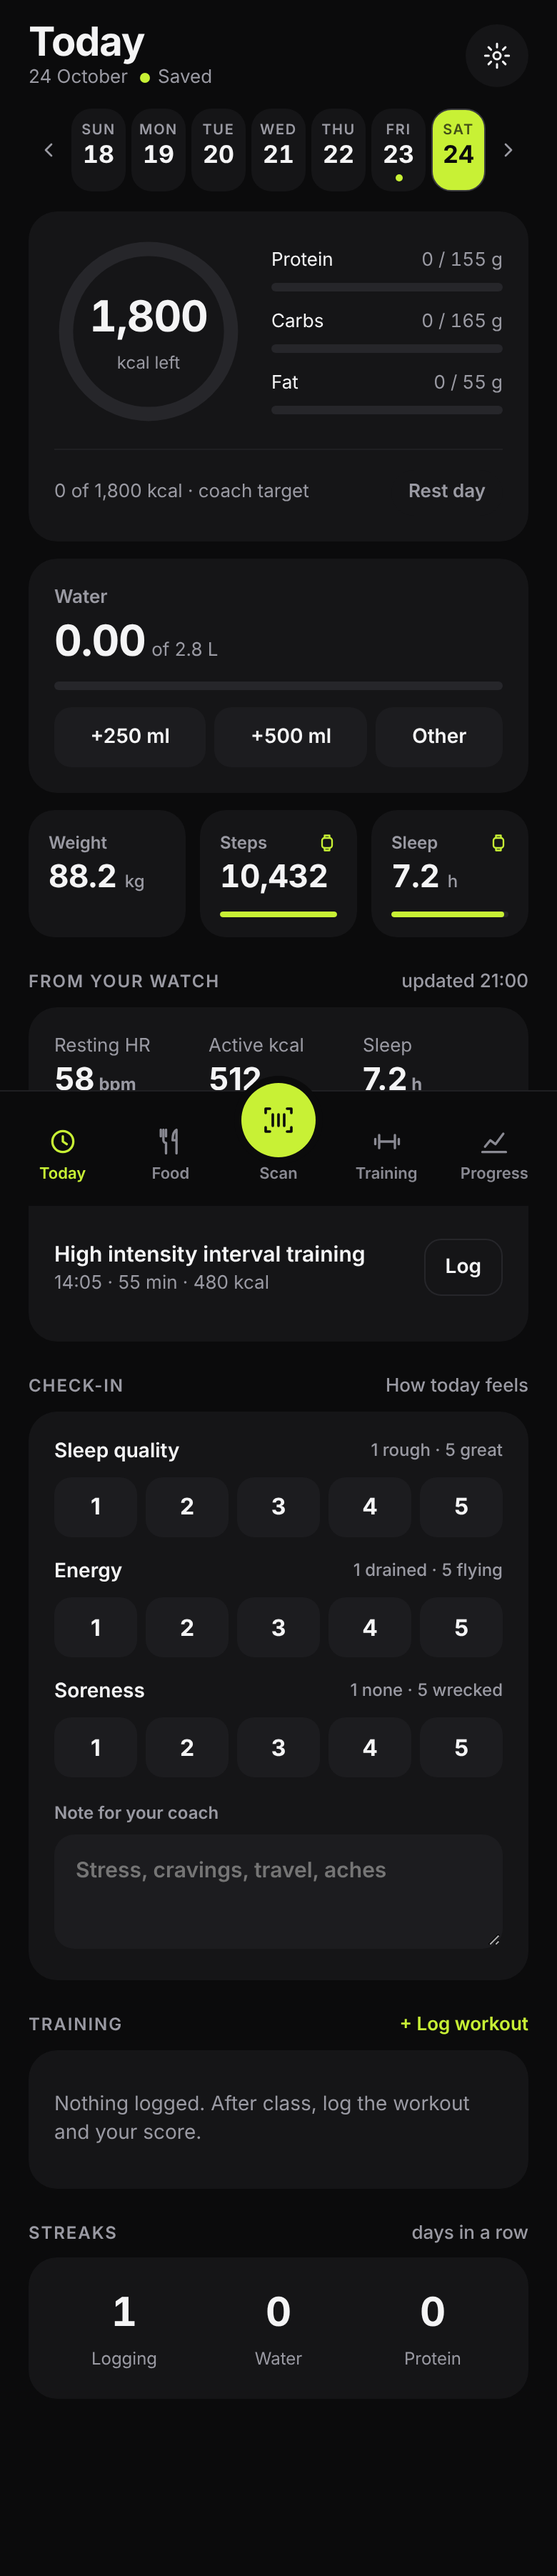
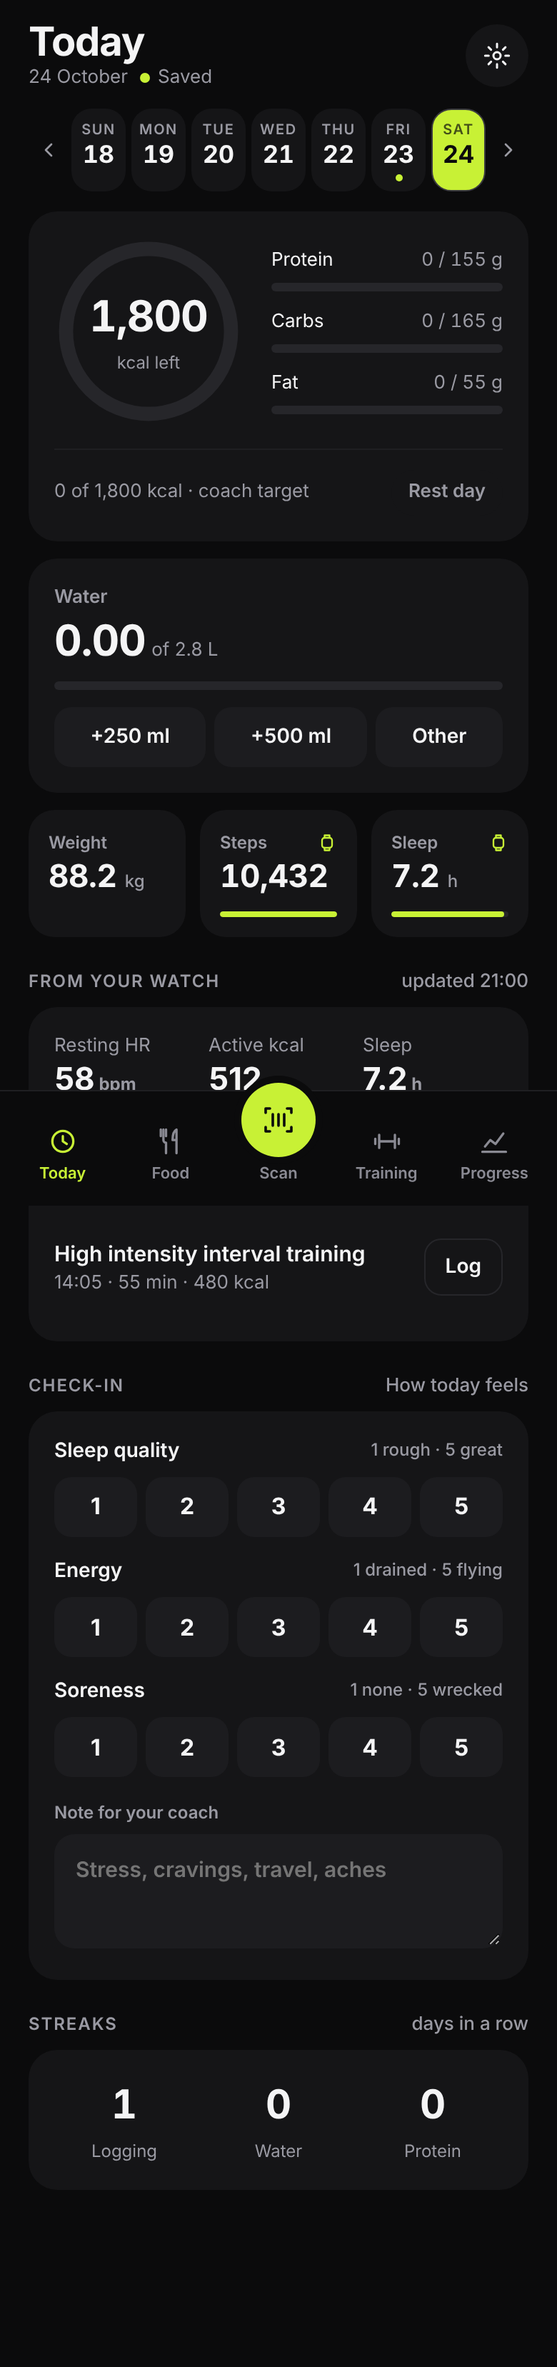
Today ends with Streaks; add food from another day (#18)
Remove the Training section from the Today screen. In the add-food sheet,
add 'From another day': the last 7 days with food, yesterday open and
older days folded, with + per item and Add all per meal. Copies keep
grams and get a new id and the current time. sw cache v21.

Claude-Session: https://claude.ai/code/session_01NXSLsekK9o7ccniDYoUDFF

diff --git a/index.html b/index.html
@@ -122,6 +122,21 @@ label.f input, label.f select, label.f textarea { margin-top: 6px; background: v
 .prow .s { display: block; font-size: 13px; color: var(--muted); }
 .prow .pd { flex: none; text-align: right; font-size: 12px; color: var(--muted); line-height: 1.2; }
 .prow .pd b { display: block; font-family: var(--display); font-size: 15px; color: var(--text); }
+.fd-day { margin-top: 10px; }
+.fd-day summary { list-style: none; display: flex; align-items: center; gap: 10px; min-height: 48px; padding: 0 2px; cursor: pointer; font-weight: 600; }
+.fd-day summary::-webkit-details-marker { display: none; }
+.fd-day summary span:first-child { flex: 1; }
+.fd-day summary::after { content: ""; width: 8px; height: 8px; border-right: 2px solid var(--muted); border-bottom: 2px solid var(--muted); transform: rotate(45deg); margin: 0 6px -2px 4px; transition: transform .2s; }
+.fd-day[open] summary::after { transform: rotate(-135deg); margin-bottom: -6px; }
+.fd-k { color: var(--muted); font-size: 14px; font-variant-numeric: tabular-nums; font-weight: 500; }
+.fd-meal { background: var(--panel); border-radius: 16px; padding: 10px 14px 4px; margin-bottom: 10px; }
+.fd-h { display: flex; align-items: center; gap: 10px; }
+.fd-h b { flex: 1; }
+.fd-h span { font-size: 13px; color: var(--muted); font-variant-numeric: tabular-nums; }
+.fd-meal .item { padding: 9px 0; gap: 10px; }
+.fd-meal .k { font-family: var(--display); font-weight: 700; font-variant-numeric: tabular-nums; }
+.fd-meal .k small { font-family: Inter, sans-serif; font-size: 11px; color: var(--muted); margin-left: 2px; font-weight: 500; }
+.ibtn.sm { width: 36px; height: 36px; border-radius: 18px; background: var(--panel2); }
 .list .item:last-child { border-bottom: 0; }
 .list .item .t { flex: 1; min-width: 0; }
 .list .item .n { font-weight: 600; overflow-wrap: anywhere; }
@@ -1001,11 +1016,29 @@ function sheetEdit(f, { isNew, note, after = 'product' } = {}) {
     if (del) del.onclick = () => { if (!del.dataset.arm) { del.dataset.arm = 1; del.textContent = 'Tap again to delete'; return; } delFood(f.id); closeSheet(); render(); };
   });
 }
+// copy food from the last 7 logged days into a meal, one item or a whole meal at a time
+function copyEntry(e, meal, date) { const c = Object.assign({}, e, { id: uid(), meal, time: new Date().toTimeString().slice(0, 5) }); editDay(date, d => { d.food.push(c); }); }
+function sheetFromDay(meal) {
+  const to = S.date, days = [];
+  for (let i = 1; i <= 21 && days.length < 7; i++) { const s = shift(to, -i), d = S.log.days[s]; if (d && d.food && d.food.length) days.push(d); }
+  const item = (d, e, k) => `<div class="item"><div class="t"><div class="n" dir="auto">${esc(e.name)}</div><div class="s">${e.grams ? e.grams + ' g · ' : e.portions ? e.portions + ' portion' + (e.portions === 1 ? '' : 's') + ' · ' : ''}P ${Math.round(e.p || 0)}</div></div><div class="k">${Math.round(e.kcal || 0)}<small>kcal</small></div><button class="ibtn sm" data-act="copyItem" data-from="${d.date}" data-k="${k}" aria-label="Add ${esc(e.name)}"><svg viewBox="0 0 24 24"><path d="M12 5v14M5 12h14"/></svg></button></div>`;
+  const dayHTML = (d, i) => `<details class="fd-day"${i ? '' : ' open'}><summary><span>${esc(dayWord(d.date).replace(/^./, c => c.toUpperCase()))}</span><span class="fd-k">${Math.round(totals(d.food).kcal)} kcal</span></summary>${MEALS.filter(m => d.food.some(e => e.meal === m)).map(m => { const es = d.food.map((e, k) => [e, k]).filter(([e]) => e.meal === m); return `<div class="fd-meal"><div class="fd-h"><b>${m}</b><span>${Math.round(totals(es.map(x => x[0])).kcal)} kcal</span><button class="btn sm" data-act="copyMeal" data-from="${d.date}" data-m="${m}">Add all</button></div><div class="list">${es.map(([e, k]) => item(d, e, k)).join('')}</div></div>`; }).join('')}</details>`;
+  openSheet(`Add to ${meal === 'Snacks' ? 'snacks' : meal.toLowerCase()} · ${dayWord(to)}`, `<p class="small muted" style="margin:4px 0 0">Tap + for one item, or Add all for a whole meal. Change amounts after by tapping the item.</p>${days.map(dayHTML).join('') || '<div class="empty">No food logged in the last 3 weeks.</div>'}`, el => {
+    el.addEventListener('click', ev => {
+      const b = ev.target.closest('[data-act=copyItem],[data-act=copyMeal]'); if (!b) return; ev.stopPropagation();
+      const src = S.log.days[b.dataset.from]; if (!src) return;
+      if (b.dataset.act === 'copyItem') { const e = src.food[+b.dataset.k]; copyEntry(e, meal, to); toast(`Added ${e.name}`); }
+      else { const es = src.food.filter(e => e.meal === b.dataset.m); es.forEach(e => copyEntry(e, meal, to)); toast(`Added ${es.length} items · ${Math.round(totals(es).kcal)} kcal`); }
+      b.disabled = true; b.textContent = b.dataset.act === 'copyMeal' ? 'Added' : '✓';
+    });
+  });
+}
 function sheetAddFood(meal) {
   const list = foods().sort((a, b) => a.name.localeCompare(b.name)), recent = recentFoods();
   const row = f => foodRow(f).replace('data-act="food"', `data-act="pickFood" data-meal="${meal}"`);
   openSheet('Add to ' + (meal === 'Snacks' ? 'snacks' : meal.toLowerCase()), `
     <div class="grid2" style="margin-top:12px"><button class="btn primary" data-act="scanFor" data-meal="${meal}">Scan barcode</button><button class="btn" data-act="quick" data-meal="${meal}">Quick add</button></div>
+    <button class="btn block" data-act="fromDay" data-meal="${meal}">From another day</button>
     <label class="search"><input type="search" id="aq" placeholder="Search ${list.length} foods" aria-label="Search foods" autocomplete="off"><svg viewBox="0 0 24 24" aria-hidden="true"><circle cx="11" cy="11" r="7"/><path d="M20 20l-3.5-3.5"/></svg></label>
     <div id="aRecent">${recent.length ? `<h2>Recent</h2><div class="list">${recent.map(row).join('')}</div>` : ''}<h2>All foods</h2><div class="list">${list.map(row).join('') || '<div class="empty">No foods yet.</div>'}</div></div>
     <div class="list" id="aRes" hidden></div>
@@ -1784,8 +1817,6 @@ function viewToday() {
       ${chips('soreness', 'Soreness', d.soreness, 'none', 'wrecked')}
       <label class="f" style="margin-top:16px">Note for your coach<textarea id="dayNote" placeholder="Stress, cravings, travel, aches">${esc(d.note)}</textarea></label>
     </div>
-    <h2>Training<button data-act="workout">+ Log workout</button></h2>
-    <div class="card">${d.workouts.length ? d.workouts.map(x => workoutHTML(x, true)).join('') : '<div class="empty">Nothing logged. After class, log the workout and your score.</div>'}</div>
     <h2>Streaks<span>days in a row</span></h2>
     <div class="card streaks">${streaks.map(([k, f]) => `<div><b>${streak(f)}</b><span>${k}</span></div>`).join('')}</div>`;
 }
@@ -2022,6 +2053,7 @@ document.addEventListener('click', e => {
   if (a === 'editFood') { const f = foods().find(x => x.id === b.dataset.id); if (f) sheetEdit(f, { isNew: false, after: 'none' }); return; }
   if (a === 'newFood') return sheetEdit({ id: '', barcode: '', name: '', brand: '', source: 'label', added: ymd() }, { isNew: true, after: S.tab === 'food' && !$('sheetRoot').innerHTML ? 'none' : 'product' });
   if (a === 'addFood') return sheetAddFood(b.dataset.meal);
+  if (a === 'fromDay') return sheetFromDay(b.dataset.meal);
   if (a === 'scanFor') { S.scanMeal = b.dataset.meal; return go('scan'); }
   if (a === 'quick') return sheetQuick(b.dataset.meal || defaultMeal());
   if (a === 'typeNew') return sheetQuick(b.dataset.meal || S.scanMeal || defaultMeal(), null, b.dataset.name);

diff --git a/sw.js b/sw.js
@@ -1,5 +1,5 @@
 // Network first, so a new version or catalogue shows up straight away; the cache only covers being offline.
-const CACHE = 'food-scanner-v20';
+const CACHE = 'food-scanner-v21';
 const SHELL = ['./', 'index.html', 'manifest.json', 'icon.svg', 'vendor/zxing-library-0.21.3.min.js'];
 self.addEventListener('install', e => { e.waitUntil(caches.open(CACHE).then(c => c.addAll(SHELL)).then(() => self.skipWaiting())); });
 self.addEventListener('activate', e => { e.waitUntil(caches.keys().then(ks => Promise.all(ks.filter(k => k !== CACHE && k.startsWith('food-scanner-')).map(k => caches.delete(k)))).then(() => self.clients.claim())); });
